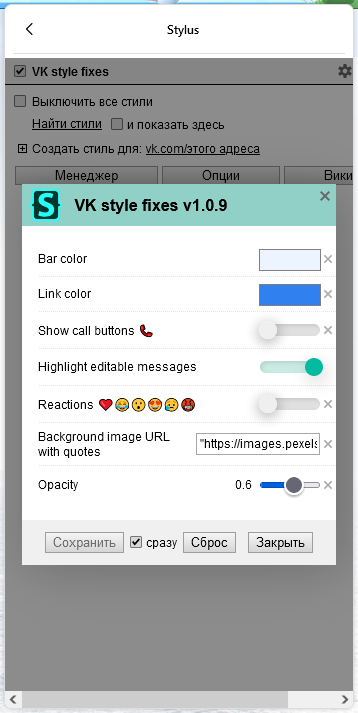
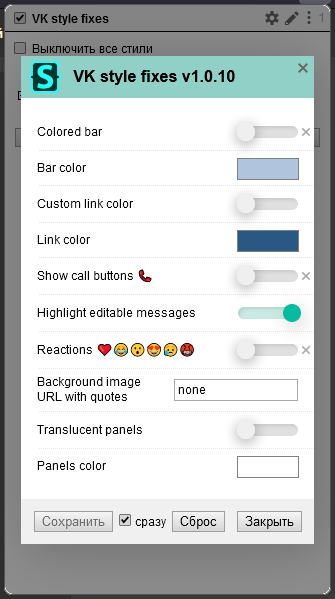
A bit better work with dark themes.

diff --git a/vk.user.css b/vk.user.css
@@ -1,19 +1,22 @@
 /* ==UserStyle==
 @name           VK style fixes
-@version        1.0.9
+@version        1.0.10
 @description    Small stylesheets for new VK interface.
 @author         sergskokow (https://vk.com/sergskokow)
 @namespace      https://github.com/sergskokow/VK_style_fixes
 @homepageURL    https://github.com/sergskokow/VK_style_fixes
 @updateURL      https://raw.githubusercontent.com/sergskokow/VK_style_fixes/master/vk.user.css
 @preprocessor   stylus
+@var            checkbox    colored_bar           'Colored bar'                         1
 @var            color       bar_color             'Bar color'                           #b0c4de
+@var            checkbox    links                 'Custom link color'                   0
 @var            color       link_color            'Link color'                          #2a5885
 @var            checkbox    show_call_buttons     'Show call buttons 📞'                1
 @var            checkbox    highlight_editable    'Highlight editable messages'         1
 @var            checkbox    reactions             'Reactions ❤😂😮😍😥🤬'            1
 @var            text        background_url        'Background image URL with quotes'    none
-@var            range       opacity               'Opacity'                             [1, 0, 1, 0.05]
+@var            checkbox    panels                'Translucent panels'                  0
+@var            color       panel_color           'Panels color'                        #ffff
 ==/UserStyle== */
 @-moz-document domain("vk.com") { /* Colored icons */
     #l_pr .LeftMenu__icon { /* Profile page */
@@ -82,7 +85,9 @@
 }
 @-moz-document domain("vk.com") { /* Colored bar */
     #page_header_cont { /* Bar color */
-        background-color: bar_color !important;
+        if colored_bar {
+            background-color: bar_color !important;
+        }
     }
     .TopNavBtn svg,
     .top_audio_player_btn svg { /* Bar buttons & text */
@@ -127,31 +132,6 @@
     }
 }
 @-moz-document domain("vk.com") { /* Post buttons and counters */
-    .post_info,
-    #wl_post_actions_wrap {
-        display: flex;
-        flex-flow: row wrap;
-        align-items: center;
-    }
-    .wall_text,
-    .replies,
-    .post_replies_header {
-        flex-basis: 100%;
-    }
-    .post_info > .like_wrap { /* Buttons indent */
-        padding-top: var(--post-action-status-bar-vertical-padding);
-        padding-left: var(--post-padding-lr);
-    }
-    .PostActionStatusBar {
-        padding-right: 0 !important;
-    }
-    .like_views { /* Views counter */
-        margin-left: 8px;
-    }
-    .ReactionsPreview__items { /* Icons of all reactions in post.
-        It's not so informative, also can be confused with like button. */
-        display: none;
-    }
     if !reactions {
         .ReactionsMenu {
             display: none;
@@ -164,13 +144,6 @@
     .ReactionsPreview.ReactionsPreview--active > .ReactionsPreview__count { /* Liked post counter */
         color: Red;
     }
-    .like_wrap { /* Views counter on the right side */
-        flex-grow: 1;
-    }
-    .wall_text { /* Audio plugin correct sizing */
-        max-width: 100%;
-        box-sizing: border-box;
-    }
 }
 @-moz-document domain("vk.com") { /* Background image and interface */
     body {
@@ -181,29 +154,41 @@
     .page_block,
     #side_bar_inner,
     .chat_onl_inner { /* All panels */
-        background-color: rgba(255, 255, 255, opacity) !important;
+        if panels {
+            background-color: panel_color !important;
+        }
     }
-    #side_bar_inner { /* Oraque sidebar for better view with background image */
-        width: 100%;
-        padding-left: 10px;
-        margin-top: 63px;
-        padding-top: 10px;
-        border-radius: 4px;
-        box-shadow: var(--page-block-shadow);
+    #side_bar_inner { /* Opaque sidebar for better view with background image */
+        if panels {
+            width: 100%;
+            padding-left: 10px;
+            margin-top: 63px;
+            padding-top: 10px;
+            border-radius: 4px;
+            box-shadow: var(--page-block-shadow);
+        }
     }
     a.left_row {
-        width: 100% !important;
+        if panels {
+            width: 100% !important;
+        }
     }
     #page_layout {
-        width: calc(var(--layout-width) + 10px);
+        if panels {
+            width: calc(var(--layout-width) + 10px);
+        }
     }
-    #page_header_cont {
+    #page_header_cont { /* Bar bottom border */
         border-bottom: 0 !important;
     }
     a {
-        color: link_color;
+        if links {
+            color: link_color;
+        }
     }
     .label:hover {
-        color: link_color !important;
+        if links {
+            color: link_color !important;
+        }
     }
 }

diff --git a/README.md b/README.md
@@ -19,10 +19,6 @@ Protection against accidental calls. Phone button won't be shown.
 Users online become more visible.
 
 ![Highlight users online](Online.png)
-## Post buttons and counters
-All buttons and counters in one row. Reactions are hidden, but available.
-
-![Buttons](Post%20buttons.png)
 ## Background image and transparent interface
 Photo author: [Ben Mack (Pexels)](https://www.pexels.com/ru-ru/photo/5326945/).
 
